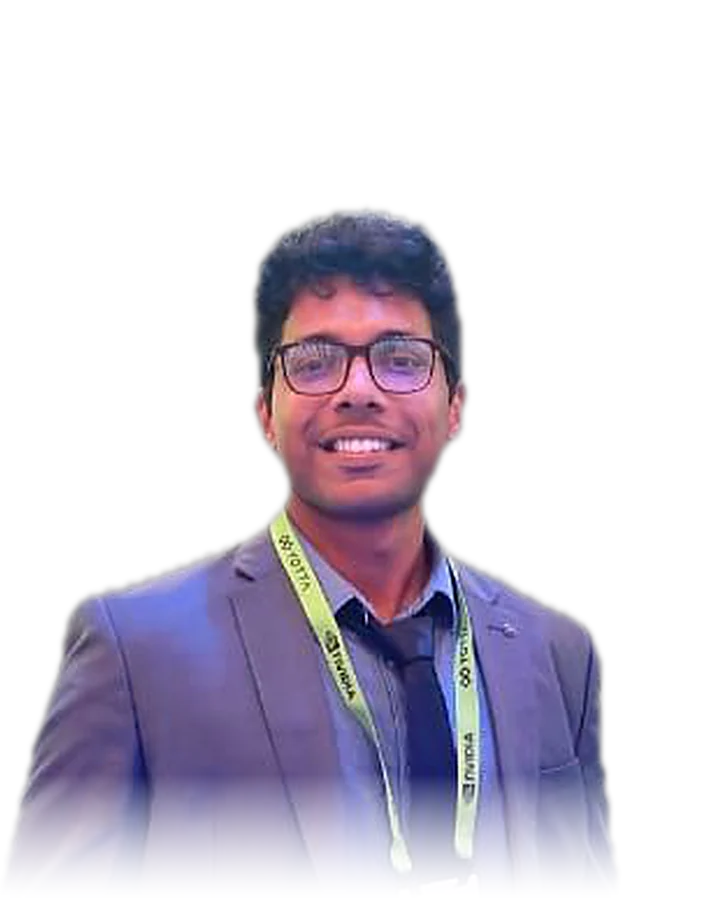
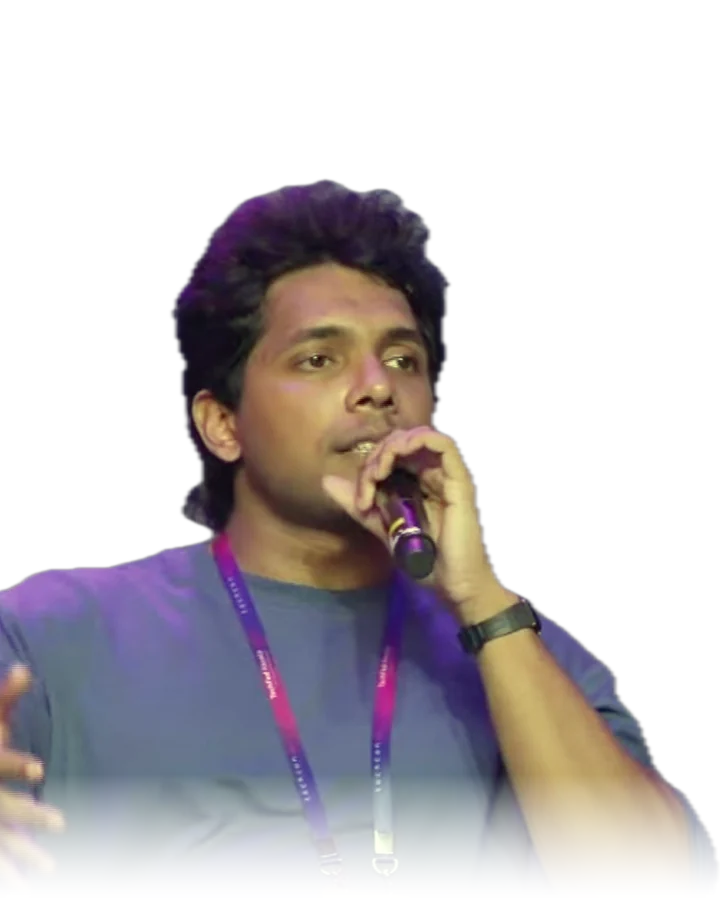
About: new portrait for Alosh, and the story starts in 2024 (#9)

diff --git a/src/pages/Home.css b/src/pages/Home.css
@@ -273,10 +273,10 @@ a:focus-visible,button:focus-visible,input:focus-visible,select:focus-visible { 
 .about-hero h1 { max-width:980px; margin:22px 0 24px; font-size:clamp(44px,5.4vw,76px); font-weight:500; letter-spacing:-3px; line-height:1.05; }
 .technical-home .about-lede { max-width:640px; font-size:17px; }
 .about-lead { display:grid; grid-template-columns:minmax(0,.9fr) minmax(0,1.1fr); align-items:center; gap:72px; padding-block:40px 24px; }
-.about-lead__portrait { position:relative; isolation:isolate; width:100%; max-width:460px; justify-self:center; }
+.about-lead__portrait { position:relative; isolation:isolate; width:100%; max-width:560px; justify-self:center; }
 .about-lead__portrait::before,.about-lead__portrait::after { content:""; position:absolute; z-index:-1; left:50%; top:44%; aspect-ratio:1; border-radius:50%; transform:translate(-50%,-50%); }
-.about-lead__portrait::before { width:108%; border:1px solid var(--sf-line); background:radial-gradient(circle at 50% 42%,color-mix(in srgb,var(--sf-accent) 24%,transparent),transparent 62%); }
-.about-lead__portrait::after { width:84%; border:1px solid color-mix(in srgb,var(--sf-accent) 30%,transparent); }
+.about-lead__portrait::before { width:94%; border:1px solid var(--sf-line); background:radial-gradient(circle at 50% 42%,color-mix(in srgb,var(--sf-accent) 24%,transparent),transparent 62%); }
+.about-lead__portrait::after { width:72%; border:1px solid color-mix(in srgb,var(--sf-accent) 30%,transparent); }
 .about-lead__portrait img { display:block; width:100%; height:auto; }
 .technical-home .about-lead h2 { max-width:560px; font-size:clamp(30px,3.2vw,44px); }
 .about-lead__mark { display:block; margin:40px 0 20px; fill:var(--sf-accent); }
@@ -305,4 +305,4 @@ a:focus-visible,button:focus-visible,input:focus-visible,select:focus-visible { 
 .technical-home .about-team__join { margin:44px 0 40px; font-size:14px; }
 .about-team__join a { color:var(--sf-accent); text-decoration:none; }
 @media(max-width:1050px) { .about-lead,.about-story { gap:44px; }.about-story { grid-template-columns:1fr; }.about-story__figure { position:static; max-width:620px; } }
-@media(max-width:760px) { .about-hero { padding-block:64px 8px; }.about-lead { grid-template-columns:1fr; gap:36px; }.about-lead__portrait { max-width:340px; }.about-lead__mark { margin-top:28px; }.about-pillars,.about-team__grid { grid-template-columns:1fr; }.about-person { max-width:420px; } }
+@media(max-width:760px) { .about-hero { padding-block:64px 8px; }.about-lead { grid-template-columns:1fr; gap:36px; }.about-lead__portrait { max-width:420px; }.about-lead__mark { margin-top:28px; }.about-pillars,.about-team__grid { grid-template-columns:1fr; }.about-person { max-width:420px; } }

diff --git a/src/pages/About.jsx b/src/pages/About.jsx
@@ -7,7 +7,7 @@ import projectReport from "../assets/about/project-report.webp";
 import "./Home.css";
 
 const STORY = [
-  "Superfloat began as a college major project. We set out to make large language models run faster on the hardware people already had, by quantizing them: holding each weight in fewer bits without losing what the model had learned. The report was called Weight-Aware Selective Quantization to Improve Performance of Deep Learning Models.",
+  "Superfloat began in 2024 as a college major project. We set out to make large language models run faster on the hardware people already had, by quantizing them: holding each weight in fewer bits without losing what the model had learned. The report was called Weight-Aware Selective Quantization to Improve Performance of Deep Learning Models.",
   "The deeper we went, the clearer one pattern became. Trained networks keep almost every weight in a narrow band of values, while the standard formats spend a large share of each number on range those weights never reach. Quantization could squeeze that waste out of memory. The arithmetic underneath still ran in floating point and still paid for it.",
   "So we went after the numbers themselves. Out of that work came a family of numerics, from 4 bits to 16, that keeps models accurate while making every multiply-add simpler and faster. Because the arithmetic itself gets simpler, the speed-up reaches the circuit, which quantization alone could not do.",
   "A better number only pays off on hardware built for it, so we built the hardware. Our Atreides accelerator is designed around Superfloat arithmetic from the processing element up. Three chips have been signed off on SkyWater's 130 nm process, and the first Superfloat silicon tapes out in December 2026.",
@@ -36,7 +36,7 @@ export default function About() {
 
       <section className="sf-container about-lead" aria-labelledby="about-lead-quote">
         <div className="about-lead__portrait" data-reveal="">
-          <img src={leadPortrait} width="760" height="1000" alt="Alosh Denny, Founder and CEO of Superfloat" />
+          <img src={leadPortrait} width="1120" height="1000" alt="Alosh Denny, Founder and CEO of Superfloat" />
         </div>
         <div className="about-lead__copy" data-reveal="1">
           <h2>The infrastructure datatype for <em>ultrafast intelligence.</em></h2>
